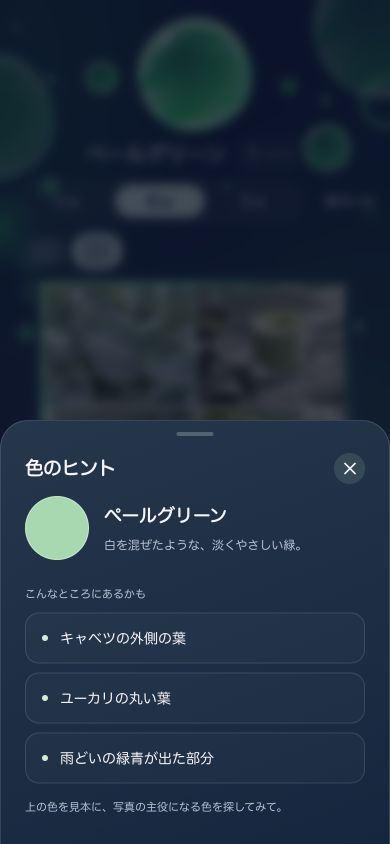
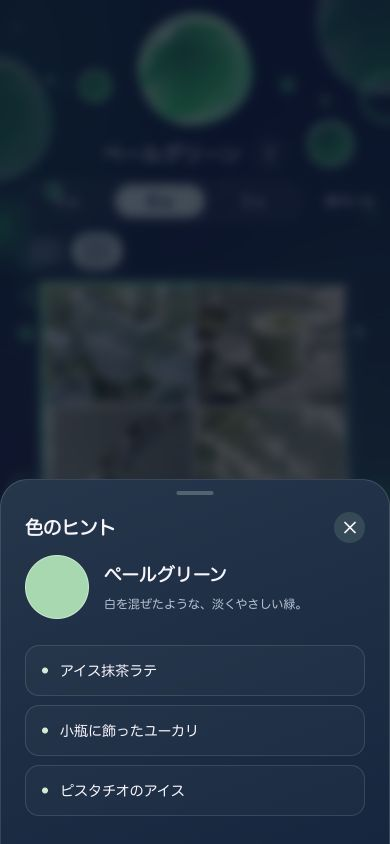
Refine hints toward everyday photogenic subjects and simplify hint controls

diff --git a/src/constants/colorHints.ts b/src/constants/colorHints.ts
@@ -3,198 +3,238 @@ export interface ColorHint {
   examples: readonly [string, string, string];
 }
 
-/** Concrete places to look: familiar objects, food, streets and scenery. */
+/** Familiar, photogenic subjects: food, plants, everyday scenes and gentle light. */
 export const COLOR_HINTS: Record<string, ColorHint> = {
   red: {
     description: "少しくすみのある、やわらかな赤。",
-    examples: ["いちごの表面", "街角の郵便ポスト", "夕焼けを映した窓"],
+    examples: ["いちごをのせたケーキ", "トマトのカプレーゼ", "夕焼けの空"],
   },
   vermilion: {
     description: "オレンジを含む、あたたかな赤。",
-    examples: ["神社の鳥居", "熟した柿の皮", "漆塗りのお椀の内側"],
+    examples: ["朝日に照らされた雲", "お皿に並べた柿", "散歩道の神社の鳥居"],
   },
   orange: {
     description: "明るく、やわらかなオレンジ。",
-    examples: ["みかんの皮", "切ったにんじん", "夕日に照らされたレンガ道"],
+    examples: [
+      "窓辺に置いたみかん",
+      "オレンジの断面",
+      "夕日が差すカフェのテーブル",
+    ],
   },
   apricot: {
     description: "ベージュを少し含む、淡いオレンジ。",
     examples: [
-      "びわの皮",
-      "ミルクを混ぜたオレンジジュース",
-      "夕日の当たる白い壁",
+      "クロワッサンとミルクティー",
+      "マーマレードのトースト",
+      "夕日を透かしたカーテン",
     ],
   },
   marigold: {
     description: "オレンジ寄りの、深みのある黄色。",
-    examples: ["卵焼きの断面", "イチョウの落ち葉", "踏切の黄色い部分"],
+    examples: [
+      "半熟卵をのせたトースト",
+      "イチョウ並木",
+      "グラスのオレンジジュース",
+    ],
   },
   yellow: {
     description: "少し落ち着いた、やさしい黄色。",
-    examples: ["レモンの皮", "バナナの皮", "駅の点字ブロック"],
+    examples: [
+      "レモンを浮かべた炭酸水",
+      "窓辺に置いたバナナ",
+      "道端のタンポポ",
+    ],
   },
   lime: {
     description: "黄色を多く含む、明るい緑。",
-    examples: ["マスカットの皮", "切ったキャベツの内側", "日差しが透ける若葉"],
+    examples: ["お皿に並べたマスカット", "光を透かした新緑", "キウイの断面"],
   },
   grass: {
     description: "黄緑より少し穏やかな、若葉の緑。",
-    examples: ["春の芝生", "枝先の新芽", "さやから出したそら豆"],
+    examples: ["木漏れ日が差す芝生", "枝先に芽吹いた新芽", "窓辺のミント"],
   },
   "pale-green": {
     description: "白を混ぜたような、淡くやさしい緑。",
-    examples: [
-      "キャベツの外側の葉",
-      "ユーカリの丸い葉",
-      "雨どいの緑青が出た部分",
-    ],
+    examples: ["アイス抹茶ラテ", "小瓶に飾ったユーカリ", "ピスタチオのアイス"],
   },
   leaf: {
     description: "葉っぱを思わせる、穏やかな緑。",
-    examples: ["街路樹の葉", "切ったピーマン", "公園の生け垣"],
+    examples: ["朝露のついた葉", "窓辺の観葉植物", "公園の木漏れ日"],
   },
   forest: {
     description: "少し青みと影を含む、落ち着いた緑。",
-    examples: ["木陰のツバキの葉", "苔の生えた石垣", "光が透けた緑のワイン瓶"],
+    examples: ["木陰に広がるシダ", "並木道の緑", "光を透かした緑のガラス瓶"],
   },
   mint: {
     description: "青をほんのり含む、明るく淡い緑。",
     examples: [
       "チョコミントアイス",
-      "ラムネ菓子の緑の粒",
-      "銅屋根にできた緑青",
+      "バニラアイスが溶けたクリームソーダ",
+      "窓辺に置いたラムネ瓶",
     ],
   },
   teal: {
     description: "青と緑のあいだの、落ち着いた色。",
-    examples: ["ラムネ瓶の厚い底", "緑青の出た銅の手すり", "橋の下の川面"],
+    examples: ["光が透けるラムネ瓶", "木々を映した川面", "波が重なる浅い海"],
   },
   aqua: {
     description: "緑を少し含む、明るい水色。",
-    examples: ["浅いプールの水面", "ラムネのガラス瓶", "晴れた日の浅い海"],
+    examples: ["光が揺れるプールの水面", "窓辺のラムネ瓶", "晴れた日の浅瀬"],
   },
   sky: {
     description: "晴れた空のような、淡い青。",
-    examples: ["晴れた日の空", "空を映したビルの窓", "ソーダ味のアイス"],
+    examples: ["白い雲と青空", "窓に映った空", "ソーダ味のアイス"],
   },
   blue: {
     description: "白を含んだ、やさしい青。",
-    examples: ["色あせたジーンズ", "晴れた日の海面", "歩道橋の青い手すり"],
+    examples: ["光の当たるデニムの質感", "波打ち際の海", "青空を映すビルの窓"],
   },
   indigo: {
     description: "紫を少し含む、落ち着いた青。",
-    examples: ["日没直後の空", "使い込んだデニム", "夕方のビルに映る青紫の空"],
+    examples: ["日没直後の空", "窓辺に置いたデニム", "夕方の街のシルエット"],
   },
   navy: {
     description: "灰色がかった、落ち着いた紺色。",
-    examples: ["制服の紺の生地", "曇り空を映す窓", "青いトタン屋根の影"],
+    examples: [
+      "夜になる直前の空",
+      "白い器と濃いデニム",
+      "街灯が映る夕方の水面",
+    ],
   },
   violet: {
     description: "少し青みのある、穏やかな紫。",
-    examples: [
-      "紫キャベツの切り口",
-      "なすの皮に映った光",
-      "夕方の空に浮かぶ雲",
-    ],
+    examples: ["ブルーベリーのスムージー", "道端に咲くスミレ", "夕暮れの雲"],
   },
   lavender: {
     description: "白を含む、ふんわりとした薄紫。",
-    examples: ["藤棚から下がる花", "ぶどうミルクのアイス", "日没後の薄紫の雲"],
+    examples: ["藤の花の房", "ブルーベリーのヨーグルト", "日没後の薄紫の雲"],
   },
   lilac: {
     description: "ピンクを少し含む、淡くくすんだ紫。",
     examples: [
-      "薄紫のあじさい",
-      "ぶどう味のマカロン",
-      "夕暮れに照らされた白い壁",
+      "あじさいの小さな花",
+      "ブルーベリーを混ぜたミルク",
+      "夕空に浮かぶ雲",
     ],
   },
   pink: {
     description: "白を混ぜたような、やさしいピンク。",
-    examples: ["桜の花びら", "いちごミルク", "夕焼けに染まった雲"],
+    examples: ["桜の枝", "グラスに注いだいちごミルク", "夕焼けに染まった雲"],
   },
   rose: {
     description: "赤みを含んだ、落ち着いたピンク。",
     examples: [
-      "ハムの切り口",
-      "紅しょうがの漬け汁",
-      "夕日を受けた赤レンガの壁",
+      "いちごジャムのトースト",
+      "ベリーのタルト",
+      "夕焼けを映したグラス",
     ],
   },
   coral: {
     description: "オレンジを含む、あたたかなピンク。",
     examples: [
-      "サーモンの切り身",
-      "ピンクグレープフルーツの果肉",
-      "夕日を受けた白いマンション",
+      "グレープフルーツの断面",
+      "サーモンのオープンサンド",
+      "夕日を受けた花びら",
     ],
   },
   peach: {
     description: "オレンジとピンクのあいだの、淡い色。",
     examples: [
-      "桃の果肉",
-      "夕焼けに染まった雲の縁",
-      "集合住宅のピンクベージュの外壁",
+      "桃をのせたヨーグルト",
+      "窓辺のミルクティー",
+      "夕焼けのやわらかな雲",
     ],
   },
   beige: {
     description: "砂を思わせる、あたたかな薄茶色。",
-    examples: ["段ボール箱の表面", "公園の砂地", "塗装されていない木の机"],
+    examples: ["カフェラテ", "焼き菓子と木のトレー", "リネンに差す光"],
   },
   ochre: {
     description: "黄色を含む、土のような茶色。",
-    examples: ["乾いた土の道", "古い家の土壁", "秋のケヤキの落ち葉"],
+    examples: ["焼き菓子の表面", "木のテーブルに差す午後の光", "秋の並木道"],
   },
   brown: {
     description: "灰色を少し含む、やわらかな茶色。",
-    examples: ["木製の公園のベンチ", "段ボール箱の切り口", "街路樹の乾いた幹"],
+    examples: [
+      "ラテアートのカフェラテ",
+      "チョコレートの焼き菓子",
+      "木のテーブルと本",
+    ],
   },
   slate: {
     description: "青と緑を少し含む、穏やかな灰色。",
     examples: [
-      "雨にぬれたコンクリート",
-      "曇り空を映したビルの窓",
-      "古いトタン屋根",
+      "雨上がりの石畳",
+      "曇り空を映す水面",
+      "窓辺のガラス瓶が落とす影",
     ],
   },
   gray: {
     description: "白と黒のあいだの、やさしい灰色。",
-    examples: ["コンクリートの壁", "歩道の石畳", "曇った空の雲"],
+    examples: [
+      "木漏れ日が落ちる石畳",
+      "シルバーのアクセサリー",
+      "やわらかな影の落ちる壁",
+    ],
   },
   brick: {
     description: "茶色を含んだ、深みのある赤。",
-    examples: ["赤レンガの建物", "屋根の赤い瓦", "乾いた紅葉の落ち葉"],
+    examples: [
+      "レンガ道に差す夕日",
+      "焼き色のついたアップルパイ",
+      "秋のもみじ",
+    ],
   },
   terracotta: {
     description: "赤とオレンジを含む、あたたかな土の色。",
-    examples: ["ベランダの素焼きの植木鉢", "赤土の道", "洋風の家の瓦屋根"],
+    examples: [
+      "草花を植えた素焼きの鉢",
+      "シナモンを振った焼き菓子",
+      "夕日に照らされたレンガ道",
+    ],
   },
   rust: {
     description: "オレンジを含む、落ち着いた赤茶色。",
-    examples: ["さびた鉄のフェンス", "松の木の皮", "乾いた茶色の落ち葉"],
+    examples: ["シナモンロール", "色づいた落ち葉", "革の手帳とコーヒー"],
   },
   amber: {
     description: "茶色を少し含む、琥珀のような黄橙色。",
     examples: [
-      "茶色の薬瓶に光が透けた部分",
-      "窓際の紅茶",
-      "夕日を映した窓ガラス",
+      "日差しを透かした紅茶",
+      "窓辺のはちみつの瓶",
+      "夕日が映るグラス",
     ],
   },
   honey: {
     description: "はちみつを思わせる、やわらかな黄金色。",
-    examples: ["瓶に入ったはちみつ", "麦わら帽子", "日差しを受けた枯れ草"],
+    examples: [
+      "はちみつをかけたパンケーキ",
+      "午後の光と麦わら帽子",
+      "光を透かしたアップルジュース",
+    ],
   },
   cream: {
     description: "黄色をほんのり含む、あたたかな白。",
-    examples: ["バニラアイス", "食パンの内側", "古い本の紙"],
+    examples: [
+      "バニラアイス",
+      "スコーンに添えたクリーム",
+      "窓辺の生成りのカーテン",
+    ],
   },
   white: {
     description: "明るく、色みの少ない白。",
-    examples: ["綿雲", "白いごはん", "白いタイルの外壁"],
+    examples: [
+      "泡の立つカプチーノ",
+      "ふわっと広がる雲",
+      "窓辺の白いマグカップ",
+    ],
   },
   black: {
     description: "光をやさしく受ける、深い黒。",
-    examples: ["自転車のタイヤ", "黒い革靴", "建物の黒い鉄製フェンス"],
+    examples: [
+      "ブラックコーヒーの水面",
+      "モノクロの本と眼鏡",
+      "夜の街のシルエット",
+    ],
   },
 };

diff --git a/src/components/ColorHintButton.tsx b/src/components/ColorHintButton.tsx
@@ -15,8 +15,7 @@ export function ColorHintButton({ color }: { color: ColorDefinition }) {
         onClick={() => setOpen(true)}
         aria-label={`${color.name}のヒント`}
       >
-        <Lightbulb size={14} aria-hidden="true" />
-        ヒント
+        <Lightbulb size={17} aria-hidden="true" />
       </button>
       <Modal open={open} onClose={() => setOpen(false)} title="色のヒント">
         <div className="hint-color">
@@ -30,15 +29,11 @@ export function ColorHintButton({ color }: { color: ColorDefinition }) {
             <p>{hint.description}</p>
           </div>
         </div>
-        <p className="hint-label">こんなところにあるかも</p>
         <ul className="hint-examples">
           {hint.examples.map((example) => (
             <li key={example}>{example}</li>
           ))}
         </ul>
-        <p className="modal-footnote">
-          上の色を見本に、写真の主役になる色を探してみて。
-        </p>
       </Modal>
     </>
   );

diff --git a/src/styles/creativeTools.css b/src/styles/creativeTools.css
@@ -8,15 +8,15 @@
   display: inline-flex;
   align-items: center;
   justify-content: center;
-  gap: 4px;
-  min-height: 32px;
-  padding: 4px 9px;
+  width: 36px;
+  height: 36px;
+  min-height: 36px;
+  padding: 0;
+  flex: none;
   background: #ffffff0a;
   color: var(--text);
   border: 1px solid #ffffff2e;
-  border-radius: 999px;
-  font-size: 10px;
-  white-space: nowrap;
+  border-radius: 50%;
 }
 .hint-color {
   display: flex;
@@ -40,11 +40,6 @@
   color: var(--muted);
   font-size: 12px;
   line-height: 1.6;
-}
-.hint-label {
-  color: var(--muted);
-  font-size: 11px;
-  margin: 0 0 10px;
 }
 .hint-examples {
   list-style: none;

diff --git a/README.md b/README.md
@@ -26,7 +26,7 @@ pnpm dev
 
 写真の間隔はHomeとカレンダー詳細の小さな写真イラストで選びます。左が4枚の写真を隣り合わせた「すき間なし」、右が間隔を空けた「すき間あり」です。画面には文字ラベルを出さず、読み上げ名とツールチップに意味を持たせています。選択は日ごとに保存され、カレンダーの表示と書き出し画像にも反映します。完成後も間隔を変更できます。写真の順序・編集値・枚数・完成時刻は引き続きロックされます。以前の記録は「すき間あり」で表示します。
 
-色を引くと、色名の横に「ヒント」が表示されます。全38色に、実際に探す場所が分かる食品・日用品・景色・建物などの具体例を3つずつ `constants/colorHints.ts` に定義しています。例えばピーチは「桃の果肉」「夕焼けに染まった雲の縁」「集合住宅のピンクベージュの外壁」です。ヒント内では色をフラットな単色で表示し、群青などの近い色も見比べやすくしています。外部通信や写真の解析は行いません。抽選中・未抽選時には表示しません。
+色を引くと、色名の横に電球アイコンだけのヒントボタンを表示します。全38色に、日常で見つけやすく写真にしたくなる食べ物・植物・景色・光の具体例を3つずつ `constants/colorHints.ts` に定義しています。例えばペールグリーンは「アイス抹茶ラテ」「小瓶に飾ったユーカリ」「ピスタチオのアイス」、ピーチは「桃をのせたヨーグルト」「窓辺のミルクティー」「夕焼けのやわらかな雲」です。ヒントには色名、短い色の特徴、被写体の例だけを表示し、操作説明の文章は添えません。色見本はフラットな単色です。外部通信や写真の解析は行いません。抽選中・未抽選時には表示しません。
 
 ホームの空き枠は、すき間なしでは境目を点線、すき間ありでは完成画像と同じ白い仕切りで表示します。`domain/collageLayout.ts` を編集画面と書き出しで共用し、写真の縦横比・仕切り幅・外周幅を同じ比率で縮小しています。完成確認の `CompletionPreview` と完成後・カレンダーの `ExportedCollage` は、共通の `useCollageExport` と `CollageImageView` から保存用のJPEGをそのまま表示します。縁・ロゴ・トリミング・仕切りを別のCSSで再現せず、画像の準備完了後に確定ボタンを有効にします。
 
